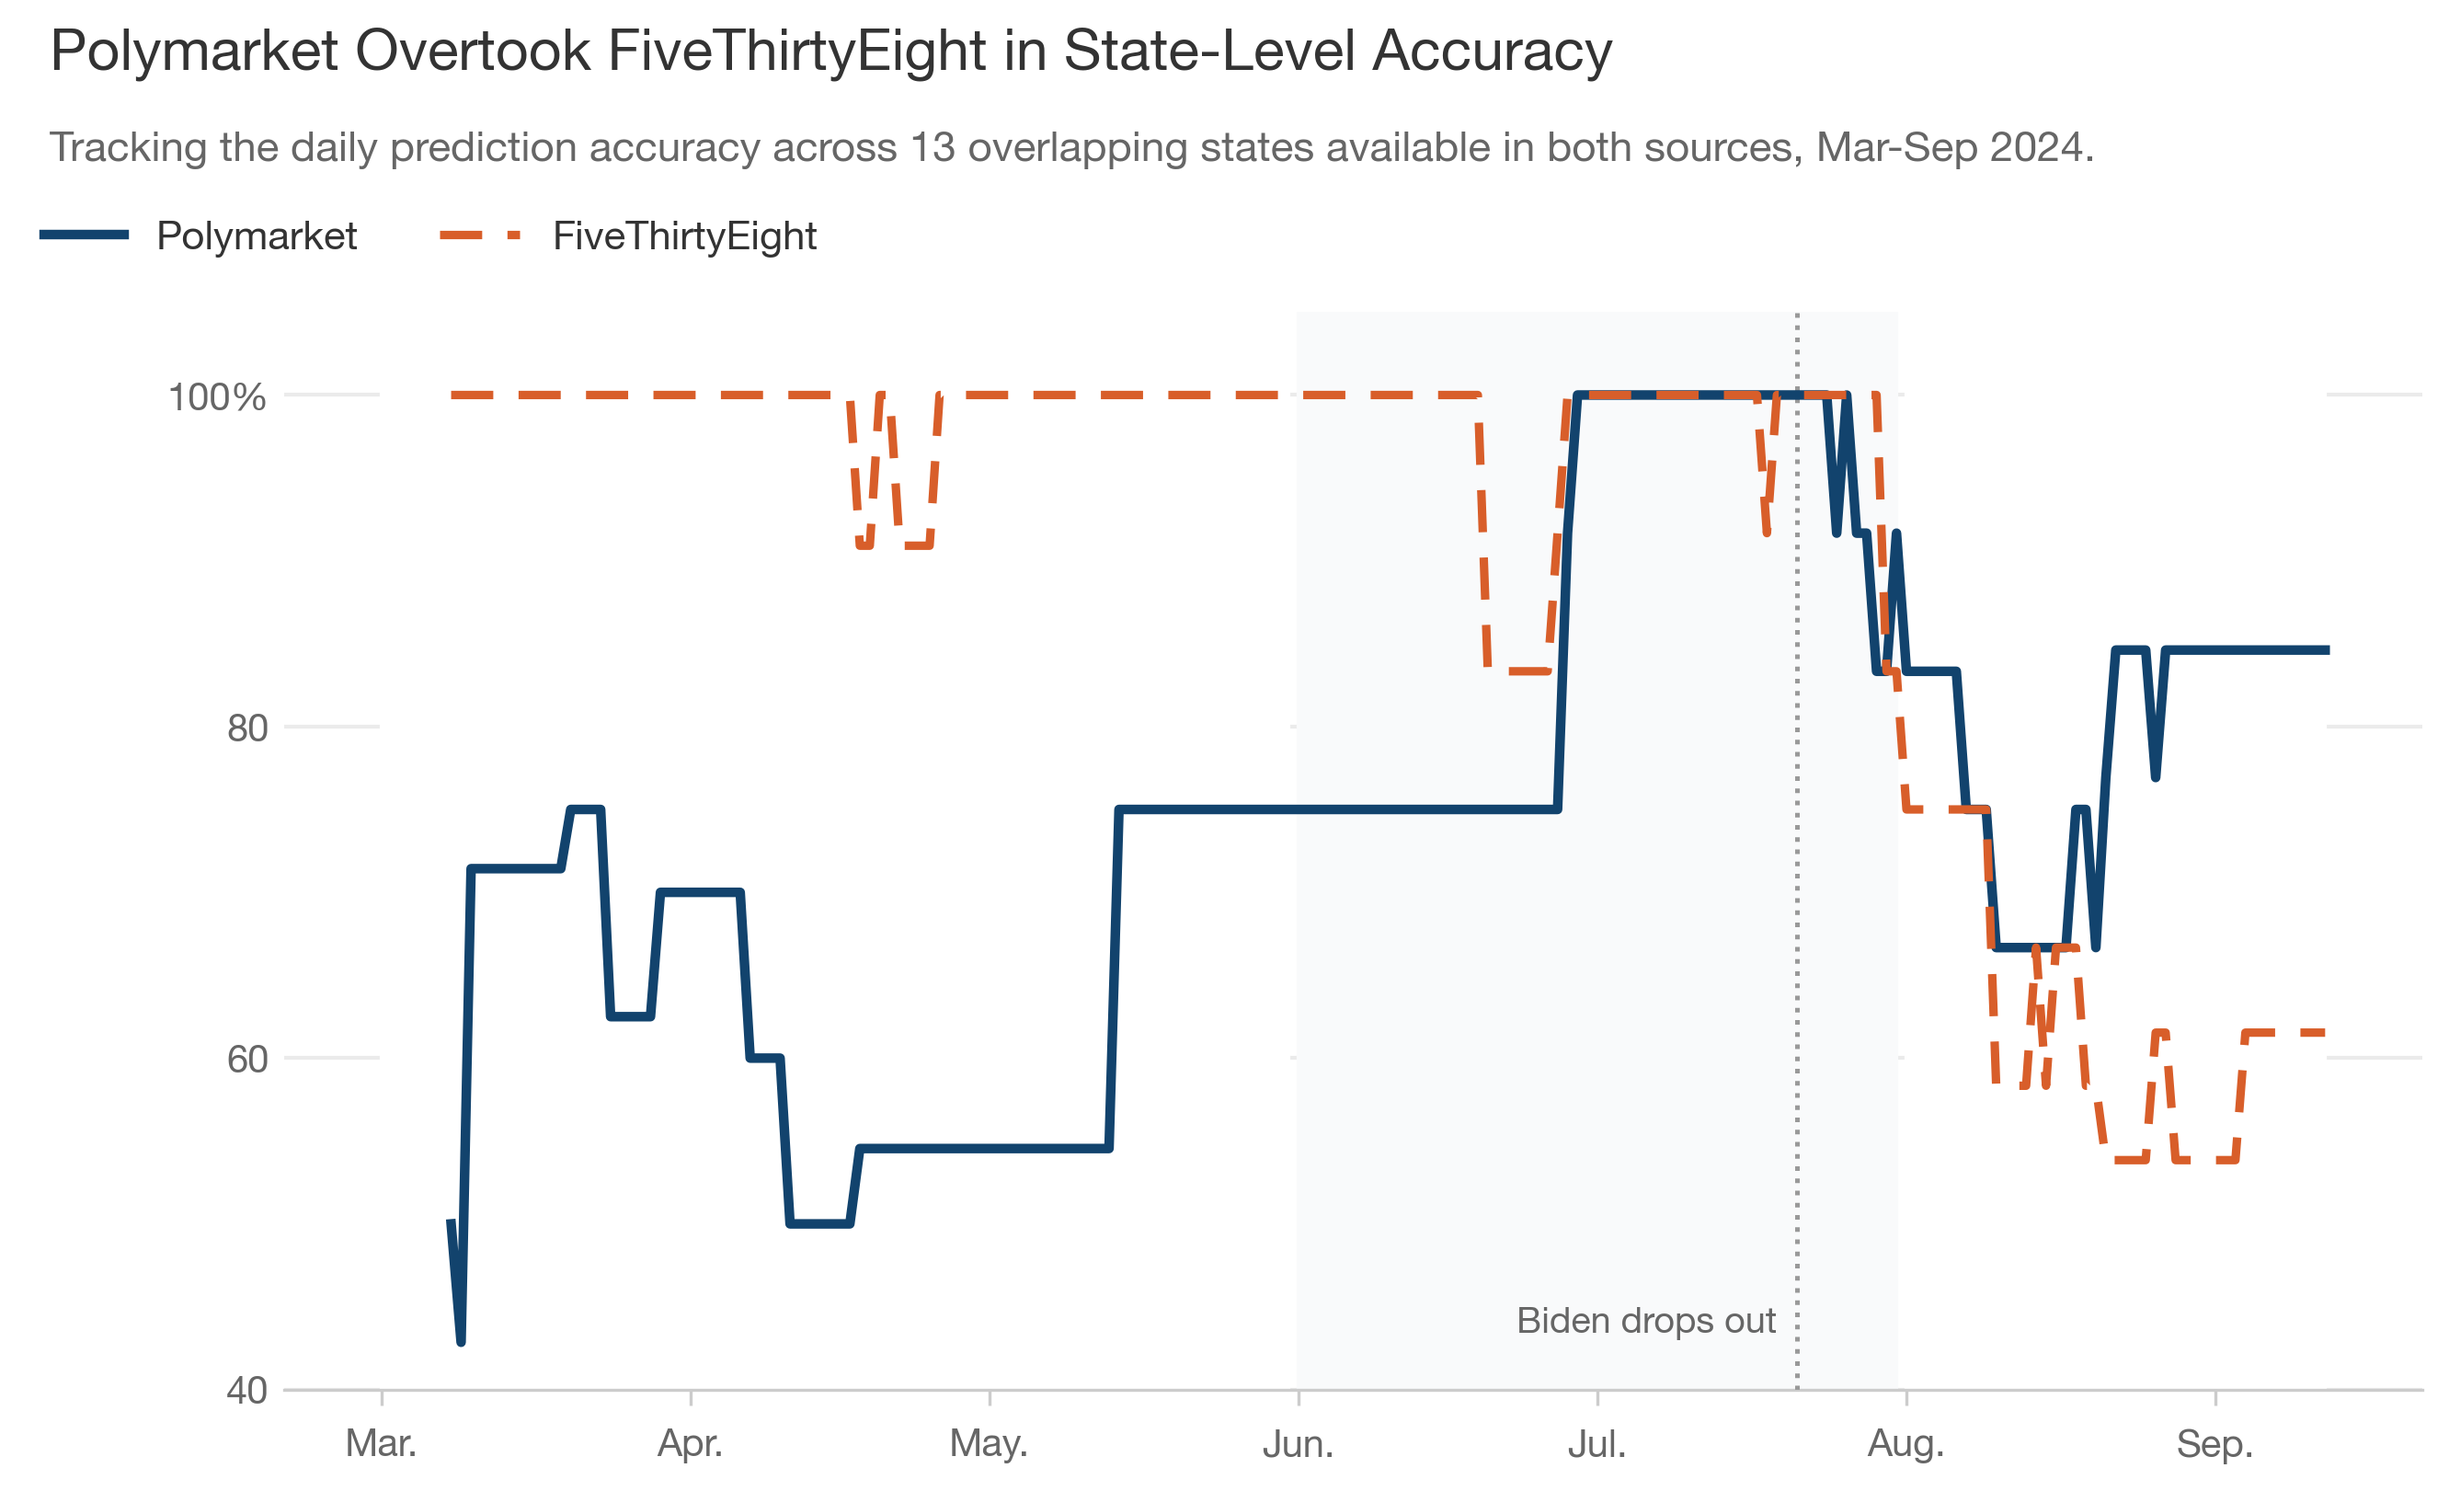
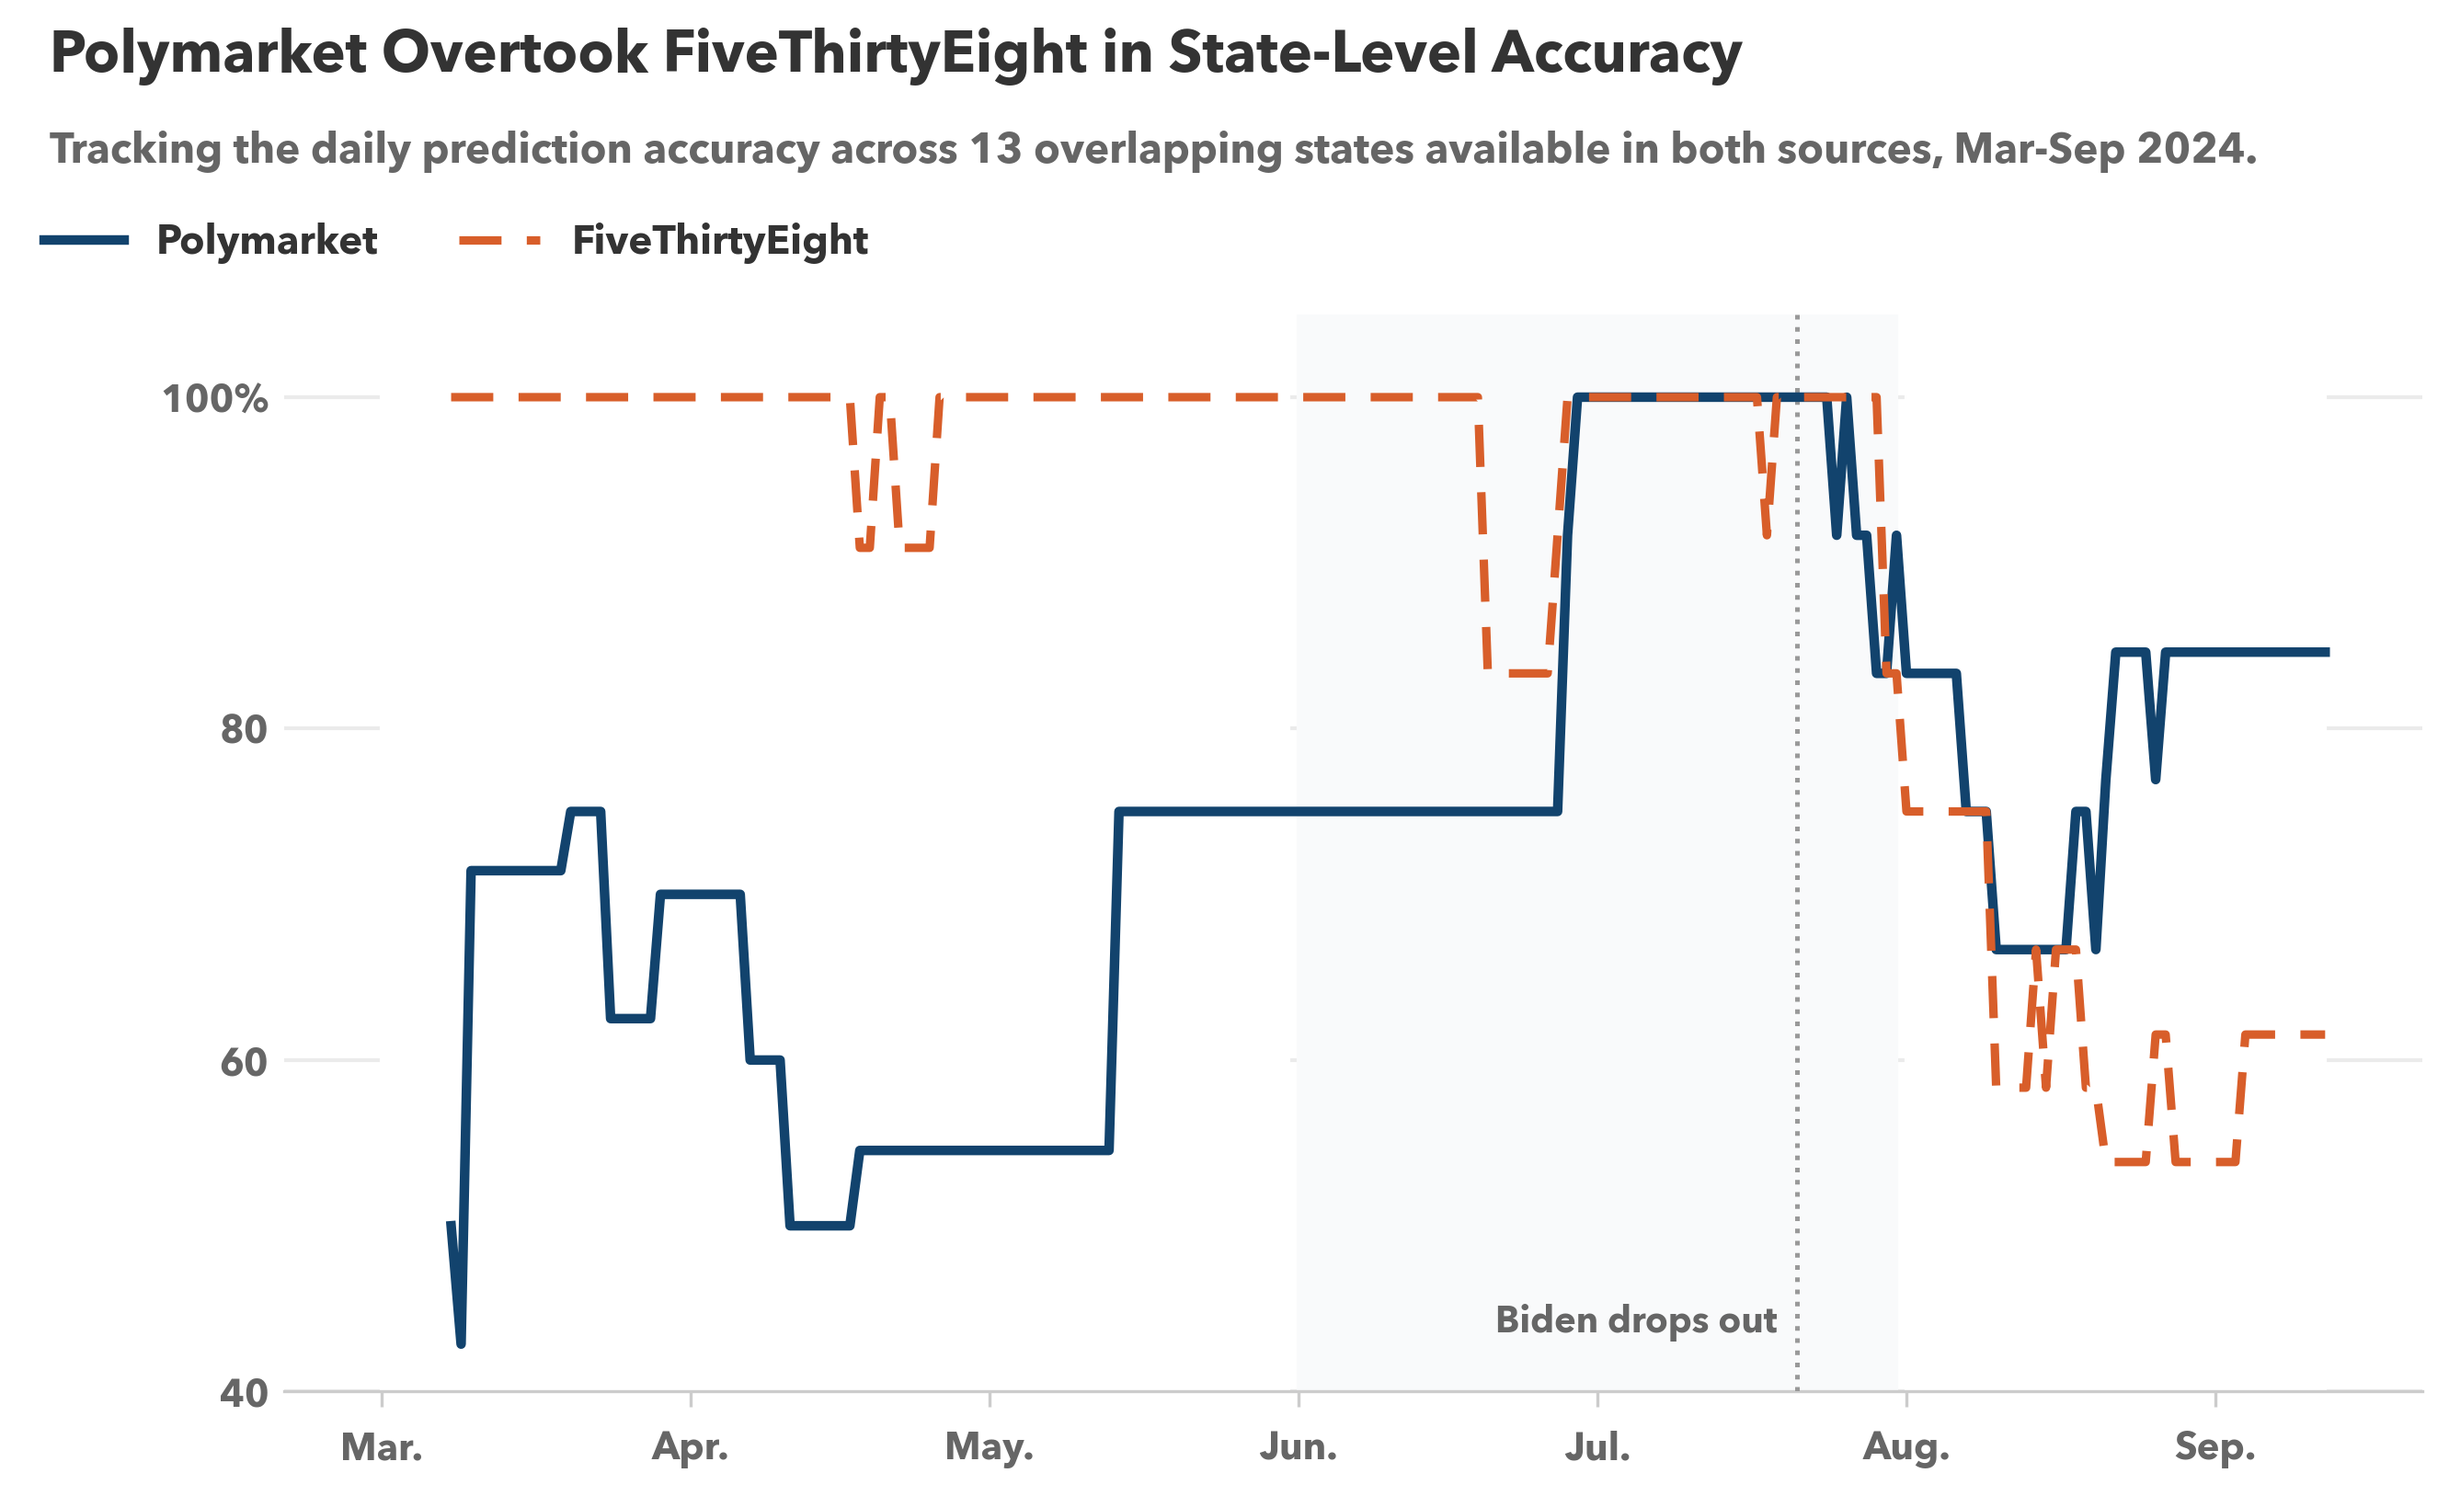
fonts

diff --git a/src/visualize/event_plots.py b/src/visualize/event_plots.py
@@ -45,7 +45,7 @@ CLR_TEXT = "#303030"
 CLR_SUBTEXT = "#6F6F6F"
 CLR_EVENT_BAND = "#F3F3F3"
 
-FONTS = ("Avenir Next", "sans-serif")
+FONTS = ("Avenir Next", "DejaVu Sans", "sans-serif")
 DPI = 300
 
 TIMELINE_START = pd.Timestamp("2024-06-01")

diff --git a/src/visualize/accuracy_plots.py b/src/visualize/accuracy_plots.py
@@ -53,7 +53,7 @@ CLR_TEXT = "#333333"
 CLR_SUBTEXT = "#666666"
 CLR_GRID = "#EBEBEB"
 
-FONTS = ["Avenir Next", "Calibri", "sans-serif"]
+FONTS = ["Avenir Next","DejaVu Sans", "sans-serif"]
 DPI = 300
 
 
